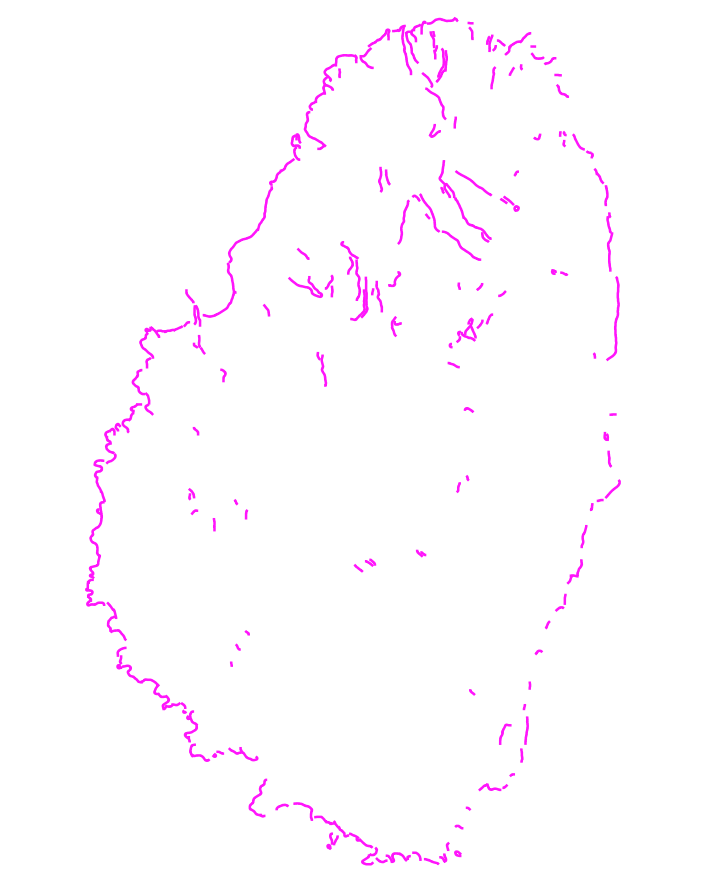
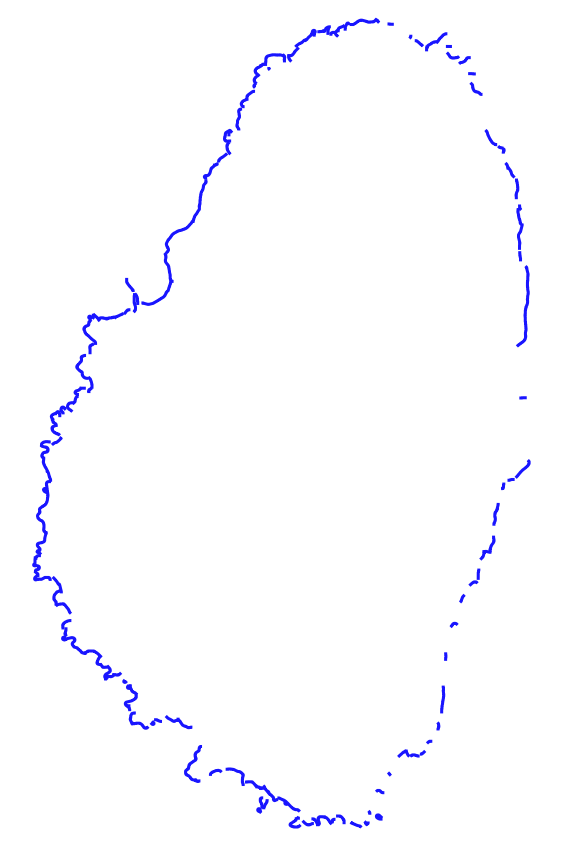
Redid the St Vincent shoreline entry on request...

diff --git a/areas/caribbean.html b/areas/caribbean.html
@@ -172,6 +172,7 @@
             <td class="text-center"><strong>TBD&nbsp;</strong></td>
             <td class="text-center"><strong><a href="https://eo4sd.eofrom.space/">GIS portal</a><br><br><a href="../data/info/D5 Technical Note - PML EO4SD Portal Help Guide Final.pdf">User Guide</a></strong></td>
         </tr>
+<!--
         <tr>
             <td class="text-center">Coastal change mapping</td>
             <td class="text-center"><img src="../images/dummy.png" width="102" height="40" alt=""/></td>
@@ -188,22 +189,23 @@
             <td class="text-center">TBD</td>
             <td class="text-center">TBD</td>
         </tr>
+-->
         <tr>
-            <td class="text-center">Coastal change mapping</td>
-            <td class="text-center"><img src="../images/dummy.png" width="102" height="40" alt=""/></td>
-            <td class="text-center">Shoreline maps with estimated locations for high and low water lines.</td>
+            <td class="text-center"><strong>Saint Vincent 2019 Shoreline</strong></td>
+            <td class="text-center"><a href="../data/Caribbean/stvincent_shoreline_2019.jpeg" target="_blank"><img src="../data/Caribbean/stvincent_shoreline_2019.PNG"><br></a>40 KB</td>
+            <td class="text-center">Shoreline shapefile was created by temporaly stacking 29 Sentinel-1 SAR images from 2019 then applying statistical edge detection using enhanced Region of Averages method.</td>
             <td class="text-center"><strong>St. Vincent</strong></td>
-            <td class="text-center">TBD</td>
-            <td class="text-center">TBD</td>
+            <td class="text-center"><strong>20190101 - 20191230</strong></td>
+            <td class="text-center"><strong><a href="https://storage.cloud.google.com/eo4sd-271513.appspot.com/StVincent/StVincent_shoreline_2019.zip">Shapefile (ZIP, 63.2KB)</a></td>
         </tr>
-        <tr>
-            <td class="text-center">&nbsp;</td>
-            <td class="text-center">&nbsp;</td>
-            <td class="text-center">&nbsp;</td>
-            <td class="text-center">&nbsp;</td>
-            <td class="text-center">&nbsp;</td>
-            <td class="text-center">&nbsp;</td>
-            </tr>
+		<tr>
+			<td class="text-center">&nbsp;</td>
+			<td class="text-center">&nbsp;</td>
+			<td class="text-center">&nbsp;</td>
+			<td class="text-center">&nbsp;</td>
+			<td class="text-center">&nbsp;</td>
+			<td class="text-center">&nbsp;</td>
+			</tr>
         </tbody>
     </table>
     </h>
